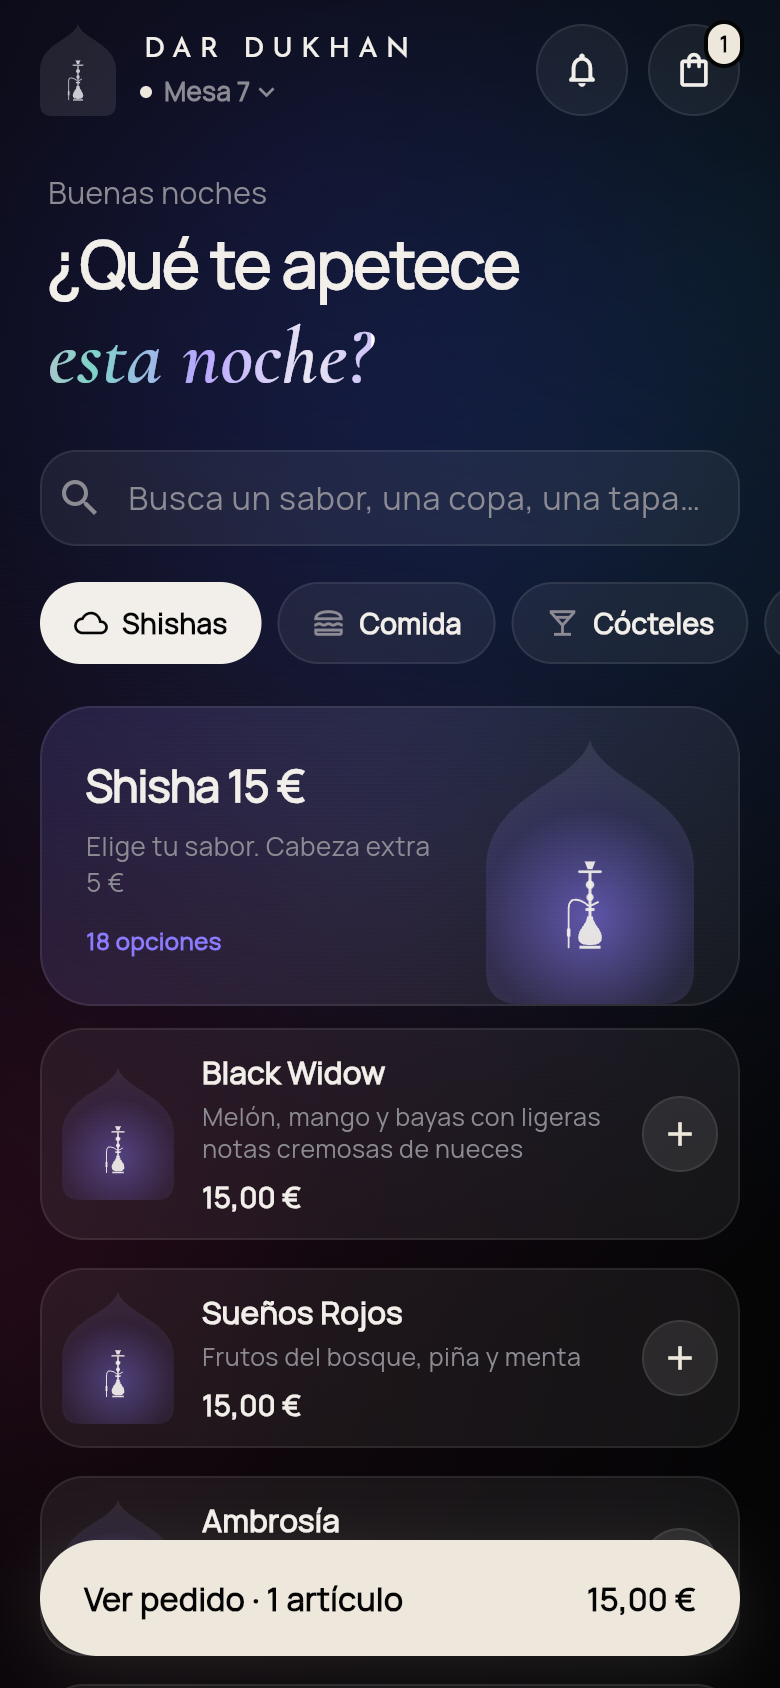
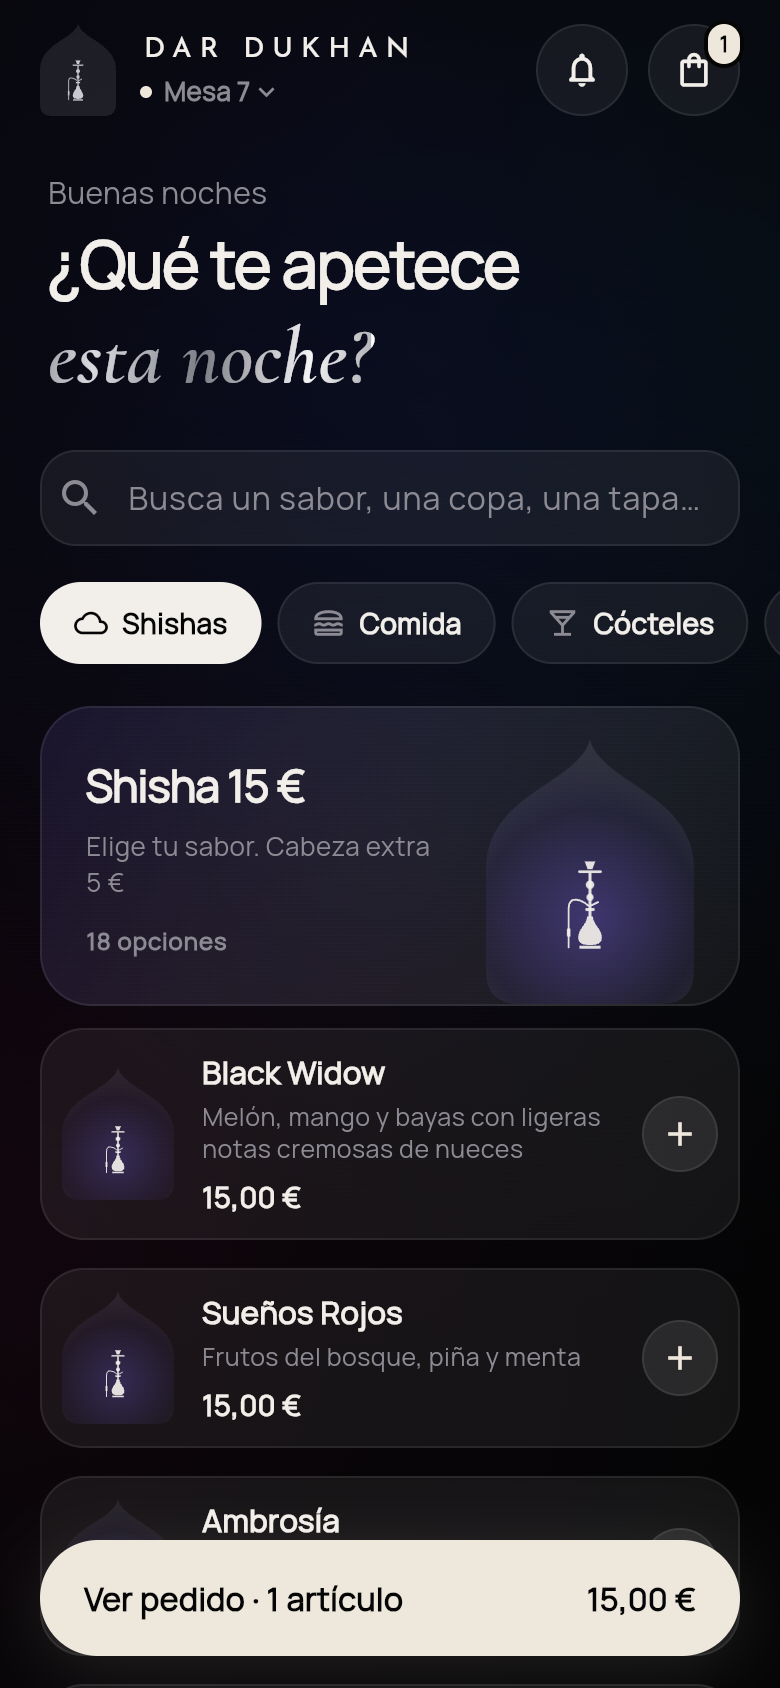
Ambiente más oscuro: humo casi negro y brillo plateado
Oscurece el humo del fondo y los tonos de cada categoría, y cambia el
degradado pastel de los títulos por un brillo metálico plateado.

Claude-Session: https://claude.ai/code/session_01At345c4V6scVK8nfXPxNTb

diff --git a/lib/data/menu_data.dart b/lib/data/menu_data.dart
@@ -8,7 +8,7 @@ const shishas = Category(
   id: 'shishas',
   name: 'Shishas',
   icon: Icons.cloud_outlined,
-  tint: Color(0xFF8B7BFF),
+  tint: Color(0xFF4E4290),
   art: ArtKind.hookah,
   bannerTitle: 'Shisha 15\u00A0€',
   bannerText: 'Elige tu sabor. Cabeza extra 5\u00A0€',
@@ -17,7 +17,7 @@ const comida = Category(
   id: 'comida',
   name: 'Comida',
   icon: Icons.lunch_dining_outlined,
-  tint: Color(0xFFC9A46A),
+  tint: Color(0xFF7A6040),
   bannerTitle: 'Tapas y bocadillos',
   bannerText: 'Para compartir mientras fumas',
 );
@@ -25,7 +25,7 @@ const cocteles = Category(
   id: 'cocteles',
   name: 'Cócteles',
   icon: Icons.local_bar_outlined,
-  tint: Color(0xFFD0668F),
+  tint: Color(0xFF7A3550),
   bannerTitle: 'Cócteles de autor',
   bannerText: 'Con y sin alcohol. Batidos naturales 5\u00A0€',
 );
@@ -33,7 +33,7 @@ const copas = Category(
   id: 'copas',
   name: 'Copas',
   icon: Icons.wine_bar_outlined,
-  tint: Color(0xFFB58A55),
+  tint: Color(0xFF6E5234),
   bannerTitle: 'Copas',
   bannerText: 'Suplemento Red Bull / Premium 1\u00A0€',
 );
@@ -41,7 +41,7 @@ const cervezas = Category(
   id: 'cervezas',
   name: 'Cervezas',
   icon: Icons.sports_bar_outlined,
-  tint: Color(0xFFD6B25E),
+  tint: Color(0xFF7A6634),
   bannerTitle: 'Cervezas y vino',
   bannerText: 'Siempre bien frías',
 );
@@ -49,7 +49,7 @@ const bebidas = Category(
   id: 'bebidas',
   name: 'Bebidas',
   icon: Icons.emoji_food_beverage_outlined,
-  tint: Color(0xFF5DB5A6),
+  tint: Color(0xFF2B615A),
   bannerTitle: 'Té marroquí 3\u00A0€',
   bannerText: 'Cafés, infusiones y refrescos',
 );
@@ -57,7 +57,7 @@ const botellas = Category(
   id: 'botellas',
   name: 'Botellas',
   icon: Icons.liquor_outlined,
-  tint: Color(0xFFA9AEBC),
+  tint: Color(0xFF555A66),
   bannerTitle: 'Botellas',
   bannerText: 'Para la mesa entera',
 );

diff --git a/lib/screens/menu_screen.dart b/lib/screens/menu_screen.dart
@@ -308,7 +308,7 @@ class _MenuScreenState extends State<MenuScreen> {
             gradient: LinearGradient(
               begin: Alignment.topLeft,
               end: Alignment.bottomRight,
-              colors: [c.tint.withValues(alpha: 0.16), DD.surface],
+              colors: [c.tint.withValues(alpha: 0.22), DD.surface],
             ),
             border: Border.all(color: DD.line),
           ),
@@ -334,7 +334,12 @@ class _MenuScreenState extends State<MenuScreen> {
                     const SizedBox(height: 12),
                     Text(
                       '${itemsOf(c).length} opciones',
-                      style: TextStyle(color: c.tint, fontWeight: FontWeight.w700, fontSize: 12),
+                      style: const TextStyle(
+                        color: DD.textDim,
+                        fontWeight: FontWeight.w700,
+                        fontSize: 12,
+                        letterSpacing: 0.5,
+                      ),
                     ),
                   ],
                 ),

diff --git a/lib/theme.dart b/lib/theme.dart
@@ -20,11 +20,13 @@ abstract final class DD {
   static const accent = Color(0xFFEDE7DC);
 
   // Humo
-  static const smokeViolet = Color(0xFF4A2F9E);
-  static const smokeTeal = Color(0xFF0E5560);
-  static const smokeWine = Color(0xFF6B1A44);
-  static const smokeIndigo = Color(0xFF1D2C7A);
-  static const shimmer = [Color(0xFFE9E6F2), Color(0xFFB7A6FF), Color(0xFF7FD3C8), Color(0xFFE6B7D0)];
+  static const smokeViolet = Color(0xFF231447);
+  static const smokeTeal = Color(0xFF06292F);
+  static const smokeWine = Color(0xFF320A21);
+  static const smokeIndigo = Color(0xFF0D1338);
+
+  /// Brillo metálico, como el marco plateado de la carta.
+  static const shimmer = [Color(0xFFF4F4F6), Color(0xFF7D7D86), Color(0xFFDADAE0), Color(0xFF5E5E66)];
 
   static const radius = 22.0;
   static const fast = Duration(milliseconds: 220);

diff --git a/lib/widgets/arch.dart b/lib/widgets/arch.dart
@@ -146,8 +146,8 @@ class ItemArt extends StatelessWidget {
             center: const Alignment(0, 0.35),
             radius: 0.95,
             colors: [
-              tint.withValues(alpha: 0.42 * glow),
-              tint.withValues(alpha: 0.10 * glow),
+              tint.withValues(alpha: 0.5 * glow),
+              tint.withValues(alpha: 0.12 * glow),
               DD.surfaceHi,
             ],
             stops: const [0, 0.55, 1],

diff --git a/README.md b/README.md
@@ -10,9 +10,9 @@ y envía el pedido a barra.
 
 ## Diseño
 
-- **Oscuro y minimalista**: negro con humo de color (violeta, petróleo y vino muy oscuros) que se
+- **Oscuro y minimalista**: negro con humo casi negro (violeta, petróleo y vino muy apagados) que se
   mueve despacio detrás de todo, tarjetas de cristal translúcido y un único acento crema sobre negro.
-- Títulos clave (marca, "esta noche?", confirmación) con un degradado plata-lavanda-petróleo animado.
+- Títulos clave (marca, "esta noche?", confirmación) con un brillo plateado animado, como el marco de la carta.
 - **El arco de la marca** como elemento de sistema: logo animado, selector de mesa, ilustraciones de
   producto y confirmación usan la misma silueta.
 - **Animaciones**: humo de fondo continuo entre pantallas, arco que se dibuja al entrar, carrusel de productos con escala/opacidad,
